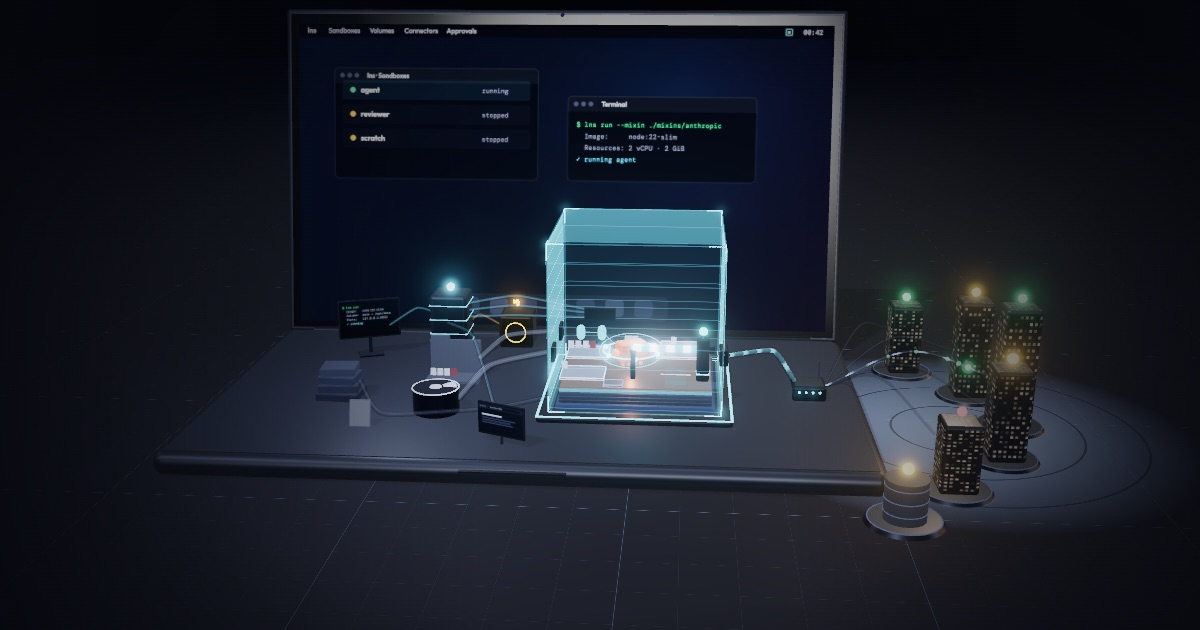
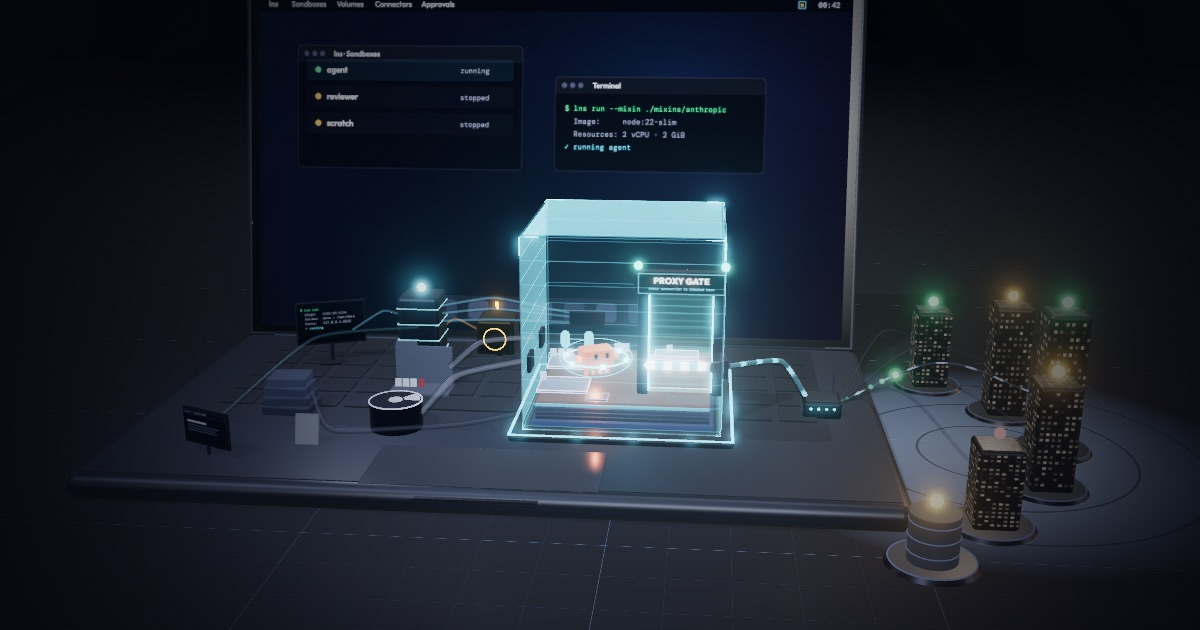
feat: big PROXY GATE doorway with light curtain; laptop keyboard and trackpad; viewport-fit cameras

diff --git a/world.js b/world.js
@@ -12,7 +12,7 @@ import {VerticalTiltShiftShader} from 'three/addons/shaders/VerticalTiltShiftSha
 import {RoundedBoxGeometry} from 'three/addons/geometries/RoundedBoxGeometry.js';
 import {CSS2DRenderer, CSS2DObject} from 'three/addons/renderers/CSS2DRenderer.js';
 import {RoomEnvironment} from 'three/addons/environments/RoomEnvironment.js';
-import {makeClawd} from './clawd.js?v=14';
+import {makeClawd} from './clawd.js?v=19';
 
 export {THREE, CSS2DObject};
 export const C = {
@@ -48,7 +48,7 @@ export const controls = new OrbitControls(camera, renderer.domElement);
 controls.enableDamping = true;
 controls.dampingFactor = 0.07;
 controls.minDistance = 5;
-controls.maxDistance = 80;
+controls.maxDistance = 110;
 controls.maxPolarAngle = Math.PI * 0.47;
 controls.screenSpacePanning = true;
 
@@ -270,7 +270,29 @@ scene.add(hostGroup);
   const cam = new THREE.Mesh(new THREE.CircleGeometry(0.1, 16), glow('#2a3a55', 1));
   cam.position.set(0, SH - 0.28, 0.21);
   screen.add(lid, glass, display, cam);
-  hostGroup.add(slab, inset, lip, hinge, screen);
+  // Keyboard: black keys on the space-grey deck, low enough that the diorama still stands on top.
+  const keyMat = std('#1b1f27', {roughness: 0.75, metalness: 0.1});
+  const keyGeo = new RoundedBoxGeometry(1, 0.08, 1, 1, 0.03);
+  const cols = 14, pitch = 1.72, kx0 = -4.5 - (cols - 1) * pitch / 2, kz0 = -7.35;
+  const keys = [];
+  for (let r = 0; r < 6; r++) {
+    const depth = r === 0 ? 0.75 : 1.42, z = kz0 + (r === 0 ? 0 : 0.95 + (r - 1) * pitch);
+    for (let c = 0; c < cols; c++) {
+      if (r === 5 && c > 3 && c < 10) { if (c === 4) keys.push([kx0 + 6.5 * pitch, z, pitch * 5 + 1.42, depth]); continue; }
+      keys.push([kx0 + c * pitch, z, 1.42, depth]);
+    }
+  }
+  const keyboard = new THREE.InstancedMesh(keyGeo, keyMat, keys.length);
+  const m4 = new THREE.Matrix4();
+  keys.forEach(([x, z, sx, sz], i) => keyboard.setMatrixAt(i, m4.compose(V(x, 0.57, z), new THREE.Quaternion(), V(sx, 1, sz))));
+  keyboard.receiveShadow = true;
+  const well = new THREE.Mesh(new RoundedBoxGeometry(cols * pitch + 0.5, 0.02, 10.9, 2, 0.2), std('#1f242d', {roughness: 0.8}));
+  well.position.set(-4.5, 0.525, kz0 + 4.95);
+  well.receiveShadow = true;
+  const pad = new THREE.Mesh(new RoundedBoxGeometry(8.2, 0.03, 3.4, 2, 0.35), std('#353b47', {roughness: 0.22, metalness: 0.45}));
+  pad.position.set(-4.5, 0.53, 6.55);
+  pad.receiveShadow = true;
+  hostGroup.add(slab, inset, lip, hinge, screen, well, keyboard, pad);
   hostGroup.userData.screen = screen;
   part('host', hostGroup, {title: 'Your Mac — the host', kicker: 'the computer everything runs on', color: C.white, chapter: 'overview',
     text: 'The laptop is your computer. Everything runs locally on it: the lns CLI, the lns-service background service, your project, named volumes, caches and connector secrets. Claude Code lives only inside the glass box.'});
@@ -367,7 +389,7 @@ export const SURF = 1.86;   // top of the writable layer, where the workload's f
 
 // The workload — a little Claude Code — and the supervisor ring around it.
 export const core = new THREE.Group();
-core.position.set(-0.3, SURF + 0.72, 0.3);
+core.position.set(-1.25, SURF + 0.72, 0.1);
 vmInner.add(core);
 export const clawd = makeClawd(core);
 part('workload', core, {title: 'Claude Code — the workload', kicker: 'sh -c claude · uid 65534', color: C.orange, chapter: 'supervisor',
@@ -427,59 +449,87 @@ export const procs = {};
   vmInner.add(new THREE.Line(new THREE.BufferGeometry().setFromPoints([prev, V(-1.6, 3.0, -0.7), V(core.position.x - 0.8, core.position.y, core.position.z - 0.9)]), lm));
 }
 
-// The proxy gate: nftables redirects every workload socket here. Drawn as a checkpoint barrier across the lane.
-export const GATE = V(1.7, 3.3, 2.0);
+// The proxy gate: the only way out of the box. A big checkpoint doorway facing the viewer, with a light curtain and a barrier arm.
+export const GATE = V(2.1, 3.05, 2.0);
 export const gate = new THREE.Group();
 gate.position.set(GATE.x, 0, GATE.z);
 vmInner.add(gate);
 const lampMat = new THREE.MeshBasicMaterial({color: new THREE.Color(C.cyan).multiplyScalar(2.6), toneMapped: false});
 const arm = new THREE.Group();
 export const gateCtl = {open: 0, target: 0, shake: 0, blink: false, color: new THREE.Color(C.cyan), flashT: 0};
+const curtainMat = new THREE.ShaderMaterial({
+  transparent: true, depthWrite: false, side: THREE.DoubleSide, blending: THREE.AdditiveBlending,
+  uniforms: {uT: time, uC: {value: new THREE.Color(C.cyan)}, uF: {value: 0}, uB: {value: 1}},
+  vertexShader: `varying vec2 vU; void main(){ vU = uv; gl_Position = projectionMatrix*modelViewMatrix*vec4(position,1.); }`,
+  fragmentShader: `uniform float uT; uniform vec3 uC; uniform float uF; uniform float uB; varying vec2 vU;
+    void main(){
+      float lines = smoothstep(.6, 1., sin(vU.y*90.)*.5+.5);
+      float sweep = 1. - smoothstep(0., .08, abs(fract(vU.y + uT*.45) - .5));
+      float edge = smoothstep(.42, .5, abs(vU.x-.5)) + smoothstep(.45, .5, abs(vU.y-.5));
+      float a = (.06 + lines*.06 + sweep*.22 + edge*.18 + uF*.45) * uB;
+      gl_FragColor = vec4(uC*(1.2 + uF*2.), a);
+    }`,
+});
+function signTex() {
+  return canvasTex(1024, 256, (g, W, H) => {
+    g.fillStyle = '#0a1220'; g.fillRect(0, 0, W, H);
+    g.strokeStyle = '#7fe3ff'; g.lineWidth = 6; g.strokeRect(8, 8, W - 16, H - 16);
+    g.fillStyle = '#eaf9ff'; g.font = '800 104px "Outfit", system-ui, sans-serif'; g.textAlign = 'center';
+    g.fillText('PROXY GATE', W / 2, 128);
+    g.fillStyle = '#7fe3ff'; g.font = '500 40px "DM Mono", monospace';
+    g.fillText('every connection is checked here', W / 2, 200);
+  });
+}
 {
   const pm = std('#1d2536', {metalness: 0.7, roughness: 0.3});
-  const X0 = 1.15, armY = GATE.y - 0.05, L = 2.85;
-  const post = new THREE.Mesh(new RoundedBoxGeometry(0.55, armY - SURF + 0.55, 0.55, 2, 0.1), pm);
-  post.position.set(X0, SURF + (armY - SURF + 0.55) / 2, 0);
-  post.castShadow = true;
-  const band = new THREE.Mesh(new THREE.BoxGeometry(0.57, 0.06, 0.57), glow(C.cyan, 1.8));
-  band.position.set(X0, SURF + 0.35, 0);
-  const lampBase = new THREE.Mesh(new THREE.CylinderGeometry(0.2, 0.24, 0.12, 20), pm);
-  lampBase.position.set(X0, armY + 0.61, 0);
-  const lamp = new THREE.Mesh(new THREE.SphereGeometry(0.19, 20, 14), lampMat);
-  lamp.position.set(X0, armY + 0.8, 0);
+  const HW = 1.4, TOP = 5.9, armY = GATE.y, L = 2.55;
+  for (const s of [-1, 1]) {
+    const p = new THREE.Mesh(new RoundedBoxGeometry(0.42, TOP - SURF, 0.5, 2, 0.08), pm);
+    p.position.set(s * HW, SURF + (TOP - SURF) / 2, 0);
+    p.castShadow = true;
+    const strip = new THREE.Mesh(new THREE.BoxGeometry(0.06, TOP - SURF - 0.3, 0.52), glow(C.cyan, 2));
+    strip.position.set(s * (HW - 0.22), SURF + (TOP - SURF) / 2, 0);
+    gate.add(p, strip);
+  }
+  const beam = new THREE.Mesh(new RoundedBoxGeometry(HW * 2 + 0.7, 0.85, 0.6, 2, 0.1), pm);
+  beam.position.set(0, TOP + 0.3, 0);
+  beam.castShadow = true;
+  const sign = new THREE.Mesh(new THREE.PlaneGeometry(HW * 2 + 0.4, (HW * 2 + 0.4) / 4), new THREE.MeshBasicMaterial({map: signTex(), toneMapped: false, color: new THREE.Color(1.3, 1.3, 1.3)}));
+  sign.position.set(0, TOP + 0.3, 0.31);
+  const signBack = sign.clone(); signBack.rotation.y = Math.PI; signBack.position.z = -0.31;
+  const lamps = [-1, 1].map(s => { const l = new THREE.Mesh(new THREE.SphereGeometry(0.17, 18, 12), lampMat); l.position.set(s * (HW + 0.2), TOP + 0.9, 0); return l; });
+  const curtain = new THREE.Mesh(new THREE.PlaneGeometry(HW * 2 - 0.42, TOP - SURF - 0.1), curtainMat);
+  curtain.position.set(0, SURF + (TOP - SURF) / 2, 0);
   const stripes = canvasTex(256, 16, (g, W, H) => { for (let i = 0; i < 8; i++) { g.fillStyle = i % 2 ? '#3fb6d6' : '#f4f8ff'; g.fillRect(i * W / 8, 0, W / 8, H); } });
-  const bar = new THREE.Mesh(new THREE.BoxGeometry(L, 0.26, 0.2), new THREE.MeshStandardMaterial({map: stripes, roughness: 0.45, emissive: new THREE.Color('#ffffff'), emissiveMap: stripes, emissiveIntensity: 0.5}));
-  bar.position.x = -(L / 2 + 0.15);
+  const bar = new THREE.Mesh(new THREE.BoxGeometry(L, 0.26, 0.22), new THREE.MeshStandardMaterial({map: stripes, roughness: 0.45, emissive: new THREE.Color('#ffffff'), emissiveMap: stripes, emissiveIntensity: 0.5}));
+  bar.position.x = -L / 2;
   bar.castShadow = true;
-  const tip = new THREE.Mesh(new THREE.SphereGeometry(0.09, 12, 10), lampMat);
-  tip.position.x = -(L + 0.15);
-  const weight = new THREE.Mesh(new RoundedBoxGeometry(0.45, 0.3, 0.3, 2, 0.06), pm);
-  weight.position.x = 0.3;
-  arm.add(bar, tip, weight);
-  arm.position.set(X0, armY, 0);
-  const rest = new THREE.Mesh(new RoundedBoxGeometry(0.22, armY - SURF - 0.05, 0.22, 2, 0.05), pm);
-  rest.position.set(X0 - L - 0.15, SURF + (armY - SURF - 0.05) / 2, 0);
-  const fork = new THREE.Mesh(new THREE.BoxGeometry(0.3, 0.08, 0.34), pm);
-  fork.position.set(X0 - L - 0.15, armY - 0.12, 0);
+  const tip = new THREE.Mesh(new THREE.SphereGeometry(0.1, 12, 10), lampMat);
+  tip.position.x = -L;
+  const hub = new THREE.Mesh(new THREE.CylinderGeometry(0.2, 0.2, 0.34, 20), pm);
+  hub.rotation.x = Math.PI / 2;
+  arm.add(bar, tip, hub);
+  arm.position.set(HW - 0.1, armY, 0.3);
   const laneMat = new THREE.MeshBasicMaterial({color: new THREE.Color(C.cyan).multiplyScalar(0.5), transparent: true, opacity: 0.16, depthWrite: false});
-  const laneIn = new THREE.Mesh(new THREE.PlaneGeometry(0.9, 2.2), laneMat);
+  const laneIn = new THREE.Mesh(new THREE.PlaneGeometry(1.0, 1.9), laneMat);
   laneIn.rotation.x = -Math.PI / 2;
-  laneIn.position.set(0, SURF + 0.07, -0.25);
-  const laneOut = new THREE.Mesh(new THREE.PlaneGeometry(VM.w / 2 - GATE.x + 0.45, 0.9), laneMat);
+  laneIn.position.set(0, SURF + 0.07, -0.95);
+  const laneOut = new THREE.Mesh(new THREE.PlaneGeometry(VM.w / 2 - GATE.x + 0.5, 0.9), laneMat);
   laneOut.rotation.x = -Math.PI / 2;
-  laneOut.position.set((VM.w / 2 - GATE.x - 0.45) / 2, SURF + 0.07, 0.85);
-  const stop = new THREE.Mesh(new THREE.PlaneGeometry(1.3, 0.12), new THREE.MeshBasicMaterial({color: new THREE.Color('#eef2fa').multiplyScalar(1.4), toneMapped: false, transparent: true, opacity: 0.7, depthWrite: false}));
+  laneOut.position.set((VM.w / 2 - GATE.x - 0.5) / 2, SURF + 0.07, 0.85);
+  const stop = new THREE.Mesh(new THREE.PlaneGeometry(HW * 2 - 0.4, 0.12), new THREE.MeshBasicMaterial({color: new THREE.Color('#eef2fa').multiplyScalar(1.4), toneMapped: false, transparent: true, opacity: 0.7, depthWrite: false}));
   stop.rotation.x = -Math.PI / 2;
-  stop.position.set(0, SURF + 0.08, -0.4);
-  gate.add(post, band, lampBase, lamp, arm, rest, fork, laneIn, laneOut, stop);
-  gate.userData.lamp = lamp;
+  stop.position.set(0, SURF + 0.08, -0.35);
+  gate.add(beam, sign, signBack, ...lamps, curtain, arm, laneIn, laneOut, stop);
   gateCtl.update = (dt, t) => {
     gateCtl.open += (gateCtl.target - gateCtl.open) * Math.min(1, dt * 6);
     gateCtl.shake = Math.max(0, gateCtl.shake - dt * 1.6);
-    arm.rotation.z = -Math.PI / 2 * 0.92 * gateCtl.open + Math.sin(t * 38) * 0.06 * gateCtl.shake;
+    arm.rotation.z = -Math.PI / 2 * 0.9 * gateCtl.open + Math.sin(t * 38) * 0.06 * gateCtl.shake;
     gateCtl.flashT = Math.max(0, gateCtl.flashT - dt * 0.7);
     const on = gateCtl.blink ? (Math.sin(t * 9) > 0 ? 1 : 0.25) : 1;
     lampMat.color.copy(gateCtl.color).multiplyScalar((1.6 + gateCtl.flashT * 2.2) * on);
+    curtainMat.uniforms.uC.value.copy(gateCtl.color);
+    curtainMat.uniforms.uF.value = gateCtl.flashT * on + (gateCtl.blink ? 0.35 * on : 0);
     if (!gateCtl.blink && gateCtl.flashT <= 0) gateCtl.color.lerp(new THREE.Color(C.cyan), Math.min(1, dt * 2));
   };
   gateCtl.signal = (hex, blink = false) => { gateCtl.color.set(hex); gateCtl.blink = blink; gateCtl.flashT = blink ? 0 : 1; };
@@ -487,8 +537,7 @@ export const gateCtl = {open: 0, target: 0, shake: 0, blink: false, color: new T
   gateCtl.lower = () => { gateCtl.target = 0; };
   gateCtl.refuse = () => { gateCtl.shake = 1; };
   part('gate', gate, {title: 'The proxy gate', kicker: 'lns-supervisor · :3128 :3129 · DNS :5355', color: C.cyan, chapter: 'network',
-    text: 'A checkpoint on the only lane out. nftables sends every TCP connection the workload opens to the supervisor’s proxy (transparent :3129, or :3128 via HTTPS_PROXY) and every DNS query to its stub on :5355. The proxy reads the host name, checks it against the rules, and lifts the barrier, keeps it down, or holds the request and asks you.'});
-  label('proxy gate', {kicker: 'nftables → :3128/:3129 · dns :5355', color: C.cyan, at: V(X0, armY + 1.15, 0), parent: gate, part: 'gate'});
+    text: 'The only way out of the box. nftables sends every TCP connection the workload opens to the supervisor’s proxy (transparent :3129, or :3128 via HTTPS_PROXY) and every DNS query to its stub on :5355. The proxy reads the host name, checks it against the rules, and lifts the barrier, keeps it down, or holds the request and asks you.'});
 }
 export const gateScanMat = {uniforms: {uF: {value: 0}, uC: {value: new THREE.Color()}}};
 
@@ -709,7 +758,7 @@ scene.add(gitfile);
 }
 
 export const browser = new THREE.Group();
-browser.position.set(-5.2, HOST_TOP, 6.5);
+browser.position.set(-14.6, HOST_TOP, 6.3);
 scene.add(browser);
 {
   const fr = new THREE.Mesh(new RoundedBoxGeometry(2.2, 1.4, 0.1, 2, 0.05), std('#161d2b', {metalness: 0.5}));
@@ -835,7 +884,7 @@ pipe('vault', [at(vault, -0.9, 1.0, 0), at(vault, -1.9, 1.6, 0.3), at(svc, 0.5, 
 pipe('ws', [at(folder, 1.15, 1.0, -0.2), V(-6.1, 2.6, -1.4), SOCK.ws.clone().add(V(-0.2, 0, 0))], C.teal, {r: 0.1});
 pipe('data', [at(disk, 0.95, 0.6, 0), V(-6.3, 2.4, 2.2), SOCK.data.clone().add(V(-0.2, 0, 0))], C.blue, {r: 0.1});
 pipe('content', [at(cache, 0.95, 0.9, 0.3), V(-10.4, 1.1, 5.0), V(-6.0, 1.1, 4.0), V(-VM.w / 2, 1.25, 2.9)], C.violet, {r: 0.06, base: 0.1});
-pipe('port', [at(browser, -0.3, 1.3, -0.4), V(-7.2, 3.4, 1.4), at(svc, 0, 1.9, 0.95)], C.cyan, {r: 0.05, base: 0.08});
+pipe('port', [at(browser, 0.3, 1.3, -0.4), V(-12.4, 3.2, 0.6), at(svc, 0, 1.9, 0.95)], C.cyan, {r: 0.05, base: 0.08});
 pipe('net', [NIC.clone().add(V(0.2, 0, 0)), V(6.0, 2.6, 0), V(7.0, HOST_TOP + 0.7, 0)], C.cyan, {r: 0.09});
 for (const [k, d] of Object.entries(DEST)) {
   const a = V(8.3, HOST_TOP + 0.5, 0);

diff --git a/app.js b/app.js
@@ -3,7 +3,7 @@ import {
   parts, pickables, allLabels, label, vm, vmInner, shell, shellMat, shellEdges, layers, core, clawd, ring, procs, gate,
   gateScanMat, gateCtl, hostGroup, HOST_SCREEN_PIN, GATE, NIC, nic, VSOCK, vsock, SOCK, socks, plates, shelf, cli, setCliScreen, svc, vault, keyObj, cache,
   folder, disk, diskFill, gitfile, browser, nat, DEST, pipes, glow, vmLight, coreLight, SURF, VM, vmLabel, HOST_TOP,
-} from './world.js?v=17';
+} from './world.js?v=24';
 
 // ─────────────────────────────────────────────────────────────── small helpers
 const $ = s => document.querySelector(s);
@@ -233,7 +233,7 @@ const gateKey = keyObj.clone();
 gateKey.scale.setScalar(1.1);
 gateKey.visible = false;
 scene.add(gateKey);
-const GATE_KEY_POS = V(GATE.x + 1.15, SURF + 3.1, GATE.z);
+const GATE_KEY_POS = V(GATE.x + 1.6, 7.3, GATE.z);
 
 // A second sandbox for the "volume in use" demo.
 const ghost = new THREE.Group();
@@ -245,7 +245,7 @@ const ghost = new THREE.Group();
   const c2 = new THREE.Mesh(new THREE.BoxGeometry(0.5, 0.5, 0.5), new THREE.MeshStandardMaterial({color: '#2a1606', emissive: new THREE.Color(C.orange), emissiveIntensity: 1.2}));
   c2.position.y = 1.4;
   ghost.add(ped, s, c2);
-  ghost.position.set(0.5, HOST_TOP, 6.4);
+  ghost.position.set(3.4, HOST_TOP, 6.4);
   ghost.visible = false;
   ghost.userData.mat = s.material;
   scene.add(ghost);
@@ -558,9 +558,9 @@ async function relaunch(why, {pace} = {}) {
 }
 
 // ─────────────────────────────────────────────────────────────── the network path
-const HOLD_AT = () => GATE.clone().add(V(0, 0, -0.55));
-const W2G = () => new THREE.CatmullRomCurve3([coreP.clone(), V(GATE.x - 0.2, 3.55, 0.9), HOLD_AT()], false, 'catmullrom', 0.4);
-const G2N = () => new THREE.CatmullRomCurve3([HOLD_AT(), V(GATE.x, 3.3, GATE.z + 0.55), V(GATE.x + 0.9, 3.3, NIC.z), NIC.clone()], false, 'catmullrom', 0.3);
+const HOLD_AT = () => GATE.clone().add(V(0, 0, -0.6));
+const W2G = () => new THREE.CatmullRomCurve3([coreP.clone(), V((coreP.x + GATE.x) / 2, 3.45, 0.7), HOLD_AT()], false, 'catmullrom', 0.4);
+const G2N = () => new THREE.CatmullRomCurve3([HOLD_AT(), V(GATE.x, GATE.y, GATE.z + 0.6), V(GATE.x + 0.9, 3.2, NIC.z), NIC.clone()], false, 'catmullrom', 0.3);
 let hopTimer;
 function hop(i) { S.hop = i; if (current.id === 'network') refreshPanel(); clearTimeout(hopTimer); if (i >= 0) hopTimer = setTimeout(() => { S.hop = -1; if (current.id === 'network') refreshPanel(); }, 6000); }
 function flashGate(color) { gateCtl.signal(color); }
@@ -1358,10 +1358,31 @@ CH.forEach((c, i) => {
   steps.appendChild(b);
 });
 let camTween = null;
+// The whole diorama: laptop deck and screen, the cube, and the towers on the right.
+const SCENE_PTS = [V(-19, -0.5, 9), V(10, -0.5, 9), V(-19, 17.4, -11.4), V(10, 17.4, -11.4), V(17.5, 0, 10.5), V(17.5, 6, -7)];
+const CHAPTER_FIT = {
+  supervisor: () => [cli, svc, ...VMBOX],
+  mounts: () => [folder, cache, ...VMBOX],
+  volumes: () => [folder, disk, ...VMBOX],
+  filesets: () => [cache, gitfile, ...VMBOX],
+  network: () => [...VMBOX, nat, ...Object.values(DEST).map(d => d.group)],
+  policy: () => [...VMBOX, nat],
+  connector: () => [vault, svc, ...VMBOX],
+  mixin: () => [...LAYERS.map(L => L.g), ...VMBOX],
+};
 function camFor(c) {
   const [p, t] = c.cam;
   const k = clamp(0.84 / camera.aspect, 1, 2.1);
-  return [t.clone().add(p.clone().sub(t).multiplyScalar(k)), t];
+  const dir = p.clone().sub(t);
+  const pts = c.id === 'overview' ? SCENE_PTS : CHAPTER_FIT[c.id]?.().map(wp);
+  if (pts) {
+    const box = new THREE.Box3().setFromPoints(pts);
+    const ctr = box.getCenter(new THREE.Vector3());
+    const r = box.getSize(new THREE.Vector3()).length() / 2 * (c.id === 'overview' ? 0.72 : 0.7);
+    const d = Math.max(dir.length() * k, fitDist(r) * 1.02);
+    return [ctr.clone().add(dir.normalize().multiplyScalar(d)), ctr];
+  }
+  return [t.clone().add(dir.multiplyScalar(k)), t];
 }
 function flyTo(pos, tgt, dur = 1.7) {
   const p0 = camera.position.clone(), t0 = controls.target.clone();
@@ -1392,7 +1413,7 @@ function fitDist(r) {
   const free = narrow || touring ? 0.92 : Math.max(0.35, (innerWidth - 780) / innerWidth);
   const hf = Math.atan(Math.tan(vf) * camera.aspect * free);
   const vfe = narrow ? Math.atan(Math.tan(vf) * 0.5) : Math.atan(Math.tan(vf) * 0.82);
-  return clamp(r / Math.tan(Math.min(hf, vfe)) * 1.08, 7, 70);
+  return clamp(r / Math.tan(Math.min(hf, vfe)) * 1.08, 7, 95);
 }
 function stage(pts, minR = 2.6) {
   if (!demoN && !touring) return;
@@ -1403,7 +1424,7 @@ function stage(pts, minR = 2.6) {
   const dir = cp.clone().sub(ct).normalize();
   flyTo(c.clone().add(dir.multiplyScalar(fitDist(r))), c, 1.1);
 }
-const VMFOCUS = () => [core.position.clone().add(V(-1.3, 1.4, 0.6)), GATE.clone().add(V(0, 1.4, 0)), NIC.clone().add(V(0.6, -1.2, 0))];
+const VMFOCUS = () => [core.position.clone().add(V(-1.3, 1.4, 0.6)), GATE.clone().add(V(0, 3.6, 0)), NIC.clone().add(V(0.6, -1.2, 0))];
 const VMBOX = [V(-VM.w / 2, VM.floor, -VM.d / 2), V(VM.w / 2, VM.top, VM.d / 2)];
 let labelsOn = true;
 function applyLabels() {
@@ -1459,7 +1480,7 @@ const TOUR = [
   {ch: 'overview', say: 'This giant [[laptop|host]] stands for your computer.'},
   {ch: 'overview', say: 'The [[glass box|shell]] on it is a sandbox: a small, separate computer called a microVM.', focus: () => VMBOX, r: 5},
   {ch: 'overview', say: 'Inside the box lives [[Claude Code|workload]], an AI agent we want to keep contained.', focus: () => [core], r: 3.4},
-  {ch: 'overview', say: 'The [[gate|gate]] on the box’s wall is the only way out to the internet.', focus: () => [gate, nic], r: 3.6},
+  {ch: 'overview', say: 'The [[proxy gate|gate]] is the only door out of the box. Every connection is checked there.', focus: () => [gate, nic, core], r: 4},
   {ch: 'overview', say: 'These [[towers|dest-*]] are websites that Claude might try to reach.', focus: () => [nat, ...towers()], r: 5},
   {ch: 'overview', say: 'Watch Claude ask its AI model a question, through the [[gate|gate]].', run: () => request('claude', {cmd: 'claude -p "fix the tests"'}), hold: 2.5},
   {ch: 'supervisor', say: 'Now let’s watch the sandbox start up, one step at a time.', focus: () => [cli, svc, ...VMBOX], hold: 3.5},
@@ -1490,7 +1511,7 @@ const capEl = $('#cap');
 // Pins: each [[term|part]] in a caption gets a number, and the same number points at the object in the scene.
 const PIN_ANCHOR = {
   host: () => HOST_SCREEN_PIN.clone(),
-  gate: () => V(GATE.x + 1.15, SURF + 2.75, GATE.z),
+  gate: () => V(GATE.x - 1.4, 7.05, GATE.z),
   workload: () => core.position.clone().add(V(-1.25, 0.55, 0.2)),
   kernel: () => V(VM.w / 2 - 0.9, 1.05, VM.d / 2 - 0.2),
   image2: () => V(-VM.w / 2 + 0.7, 1.55, VM.d / 2 - 0.2),

diff --git a/index.html b/index.html
@@ -419,6 +419,6 @@ dialog td:first-child{white-space:nowrap;color:#fff}
   </dialog>
 </div>
 
-<script type="module" src="./app.js?v=18"></script>
+<script type="module" src="./app.js?v=25"></script>
 </body>
 </html>
